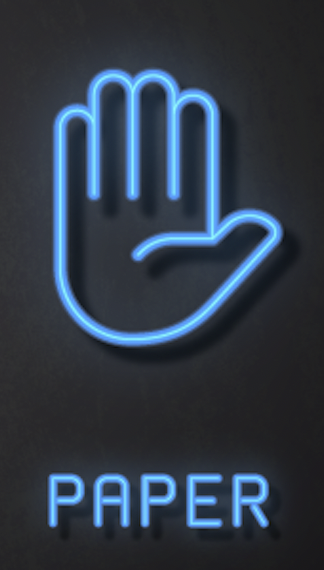
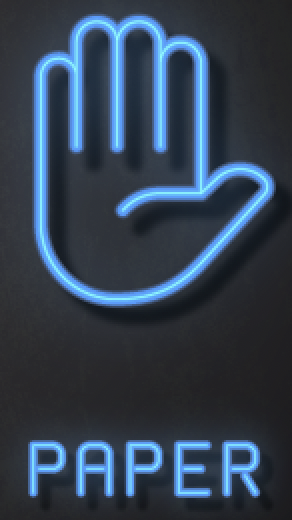
Replace images in images folder with new images

Changed region(s): [[0.0925, 0.0, 0.9555, 0.6154], [0.0925, 0.8308, 0.8938, 0.9846]]

diff --git a/index.html b/index.html
@@ -24,9 +24,9 @@
     <div>
         <h2>Best out of 5, the clock Is ticking!</h2>
         <p>Choose a winning weapon!</p>
-        <button class="btn"><img src="assets/images/rock.png">Rock</button>
-        <button class="btn"><img src="assets/images/paper.png">Paper</button>
-        <button class="btn"><img src="assets/images/scissor.png">Scissors</button>
+        <button class="btn"><img src="assets/images/rock.png"></button>
+        <button class="btn"><img src="assets/images/paper.png"></button>
+        <button class="btn">Scissors</button>
     </div>
 
     <!--Game score board-->
